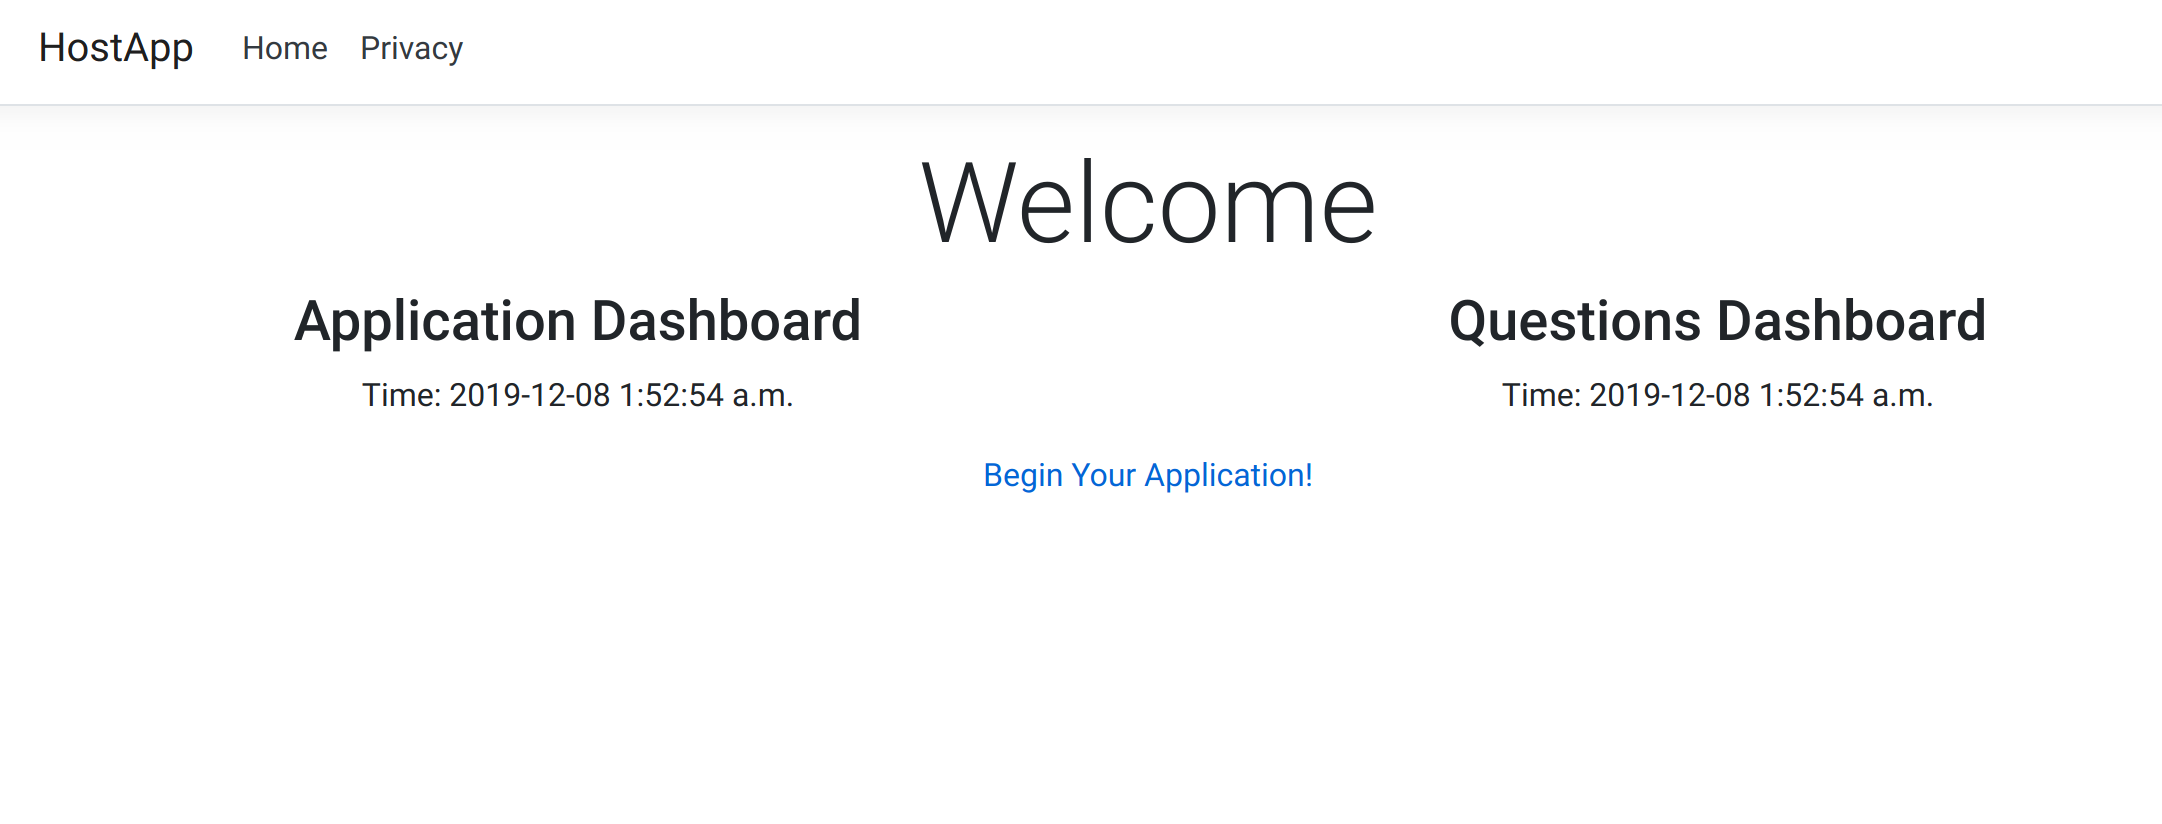
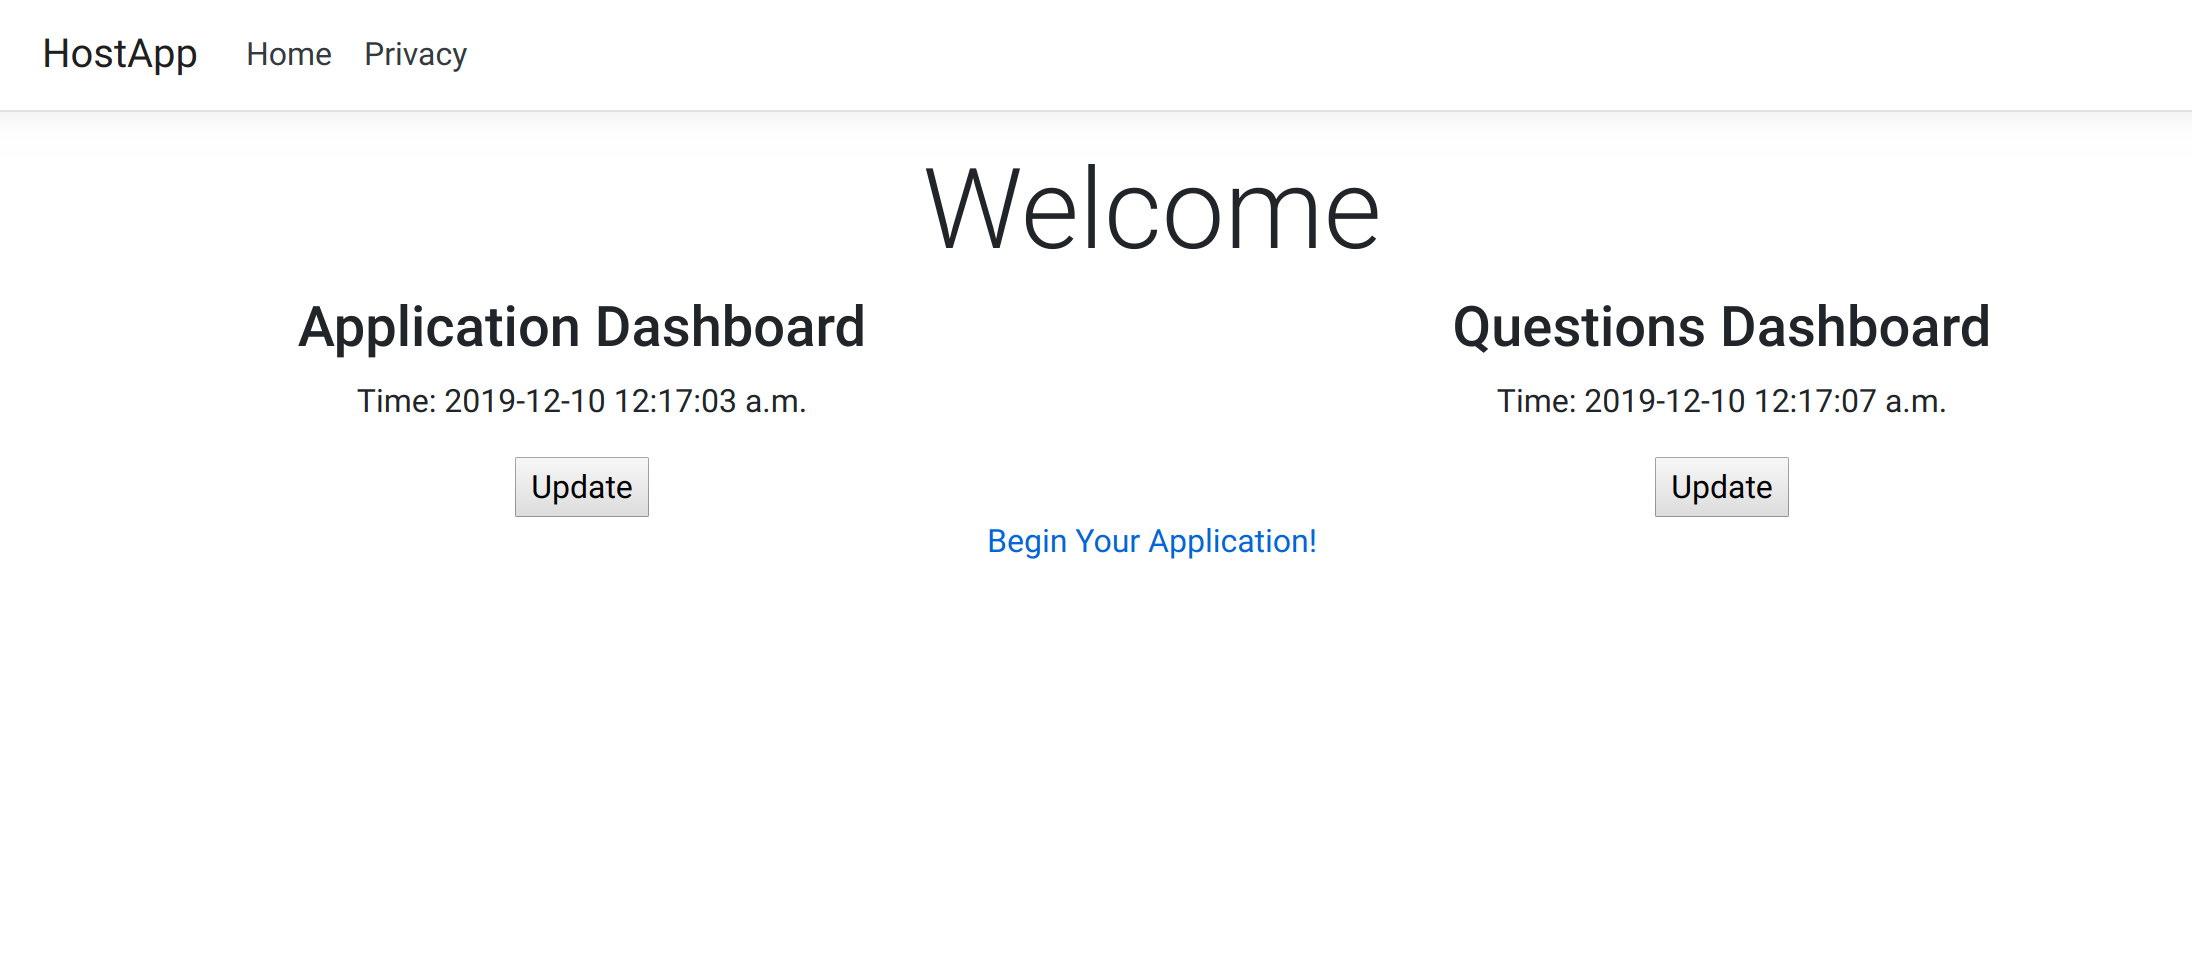
Fixes for razor component in article

diff --git a/source/_drafts/How-To-Build-Modular-Monoliths-With-NETCore-Razor-Class-Libraries.md b/source/_drafts/How-To-Build-Modular-Monoliths-With-NETCore-Razor-Class-Libraries.md
@@ -311,20 +311,29 @@ Navigate to the `InsuranceApplication` project's root directory and execute the 
 Replace the contents of your new razor component with the following:
 
 ```html
+@using Microsoft.AspNetCore.Components.Web
+
 <h3>Application Dashboard</h3>
 
 <p>
- Time: @currentTime
+    Time: @currentTime
 </p>
 
+<button @onclick="Update">Update</button>
+
 @code {
- private string currentTime = DateTime.Now.ToString();
+    private string currentTime = DateTime.Now.ToString();
+
+    private void Update()
+    {
+        currentTime = DateTime.Now.ToString();       
+    }
 }
 ```
 
 ### Create Medical Questions Component
 
-Do the same steps within the `MedicalQuestions` module to create a dummy razor component.
+Do the same steps within the `MedicalQuestions` module to create a dummy razor component (but change the title of the component).
 
 ### Putting It Together
 
